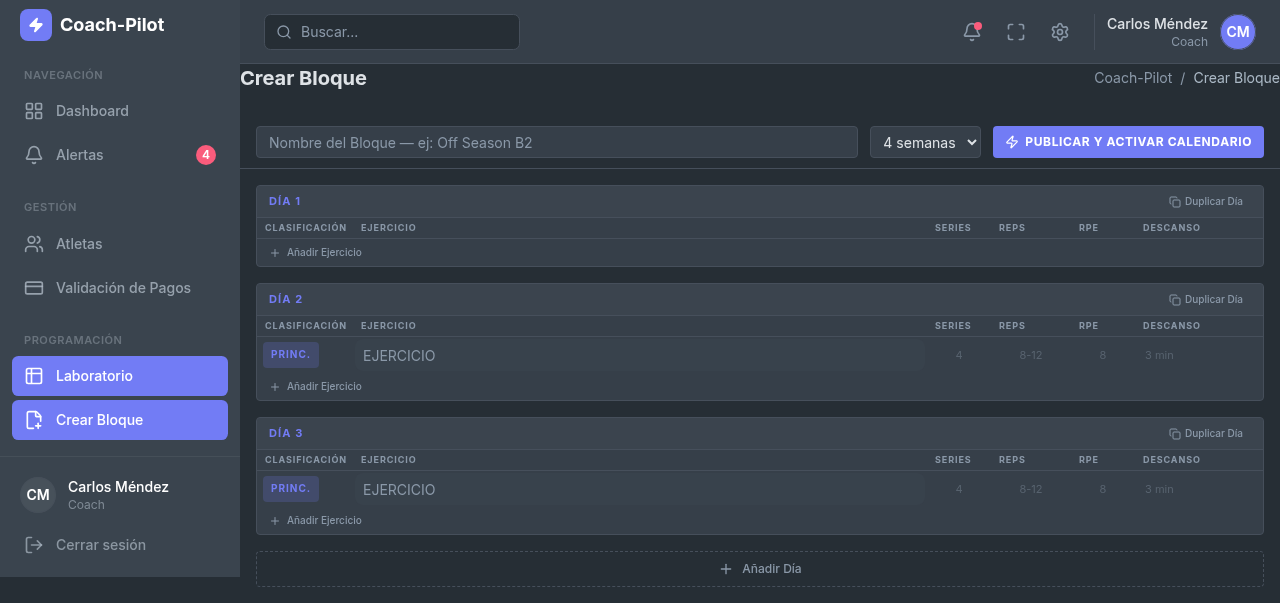
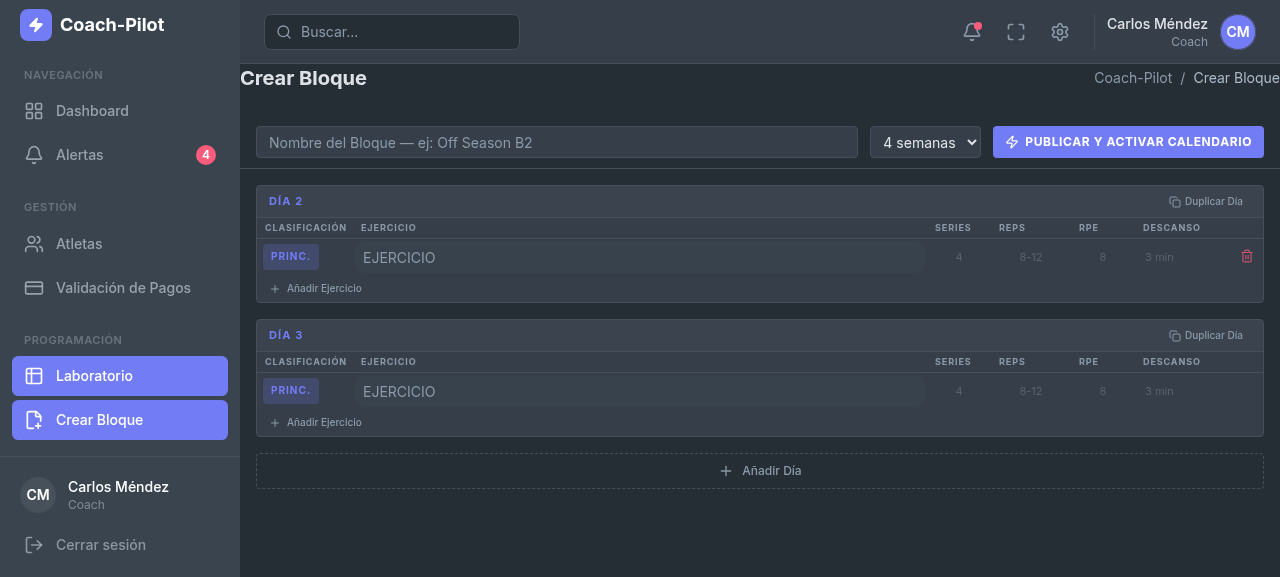
feat: enhance row deletion logic and remove empty days\n\nImproved row deletion to filter out empty days after removal.

diff --git a/components/block-editor.tsx b/components/block-editor.tsx
@@ -146,13 +146,15 @@ export function BlockEditor() {
   }
 
   const deleteRow = (dayId: string, rowId: string) =>
-    setDays((prev) =>
-      prev.map((d) =>
+    setDays((prev) => {
+      const updated = prev.map((d) =>
         d.id !== dayId
           ? d
           : { ...d, rows: d.rows.filter((r) => r.id !== rowId) },
-      ),
-    )
+      )
+      // Eliminar día si queda sin filas
+      return updated.filter((d) => d.rows.length > 0)
+    })
 
   const duplicateDay = (dayId: string) => {
     setDays((prev) => {
@@ -209,7 +211,7 @@ export function BlockEditor() {
       }
     }
 
-  // ─────────────────────────────────────────────────────────────────────────
+  // ────────────────────────────────────────────���────────────────────────────
 
   return (
     <div className="flex flex-col gap-0 min-h-full">
